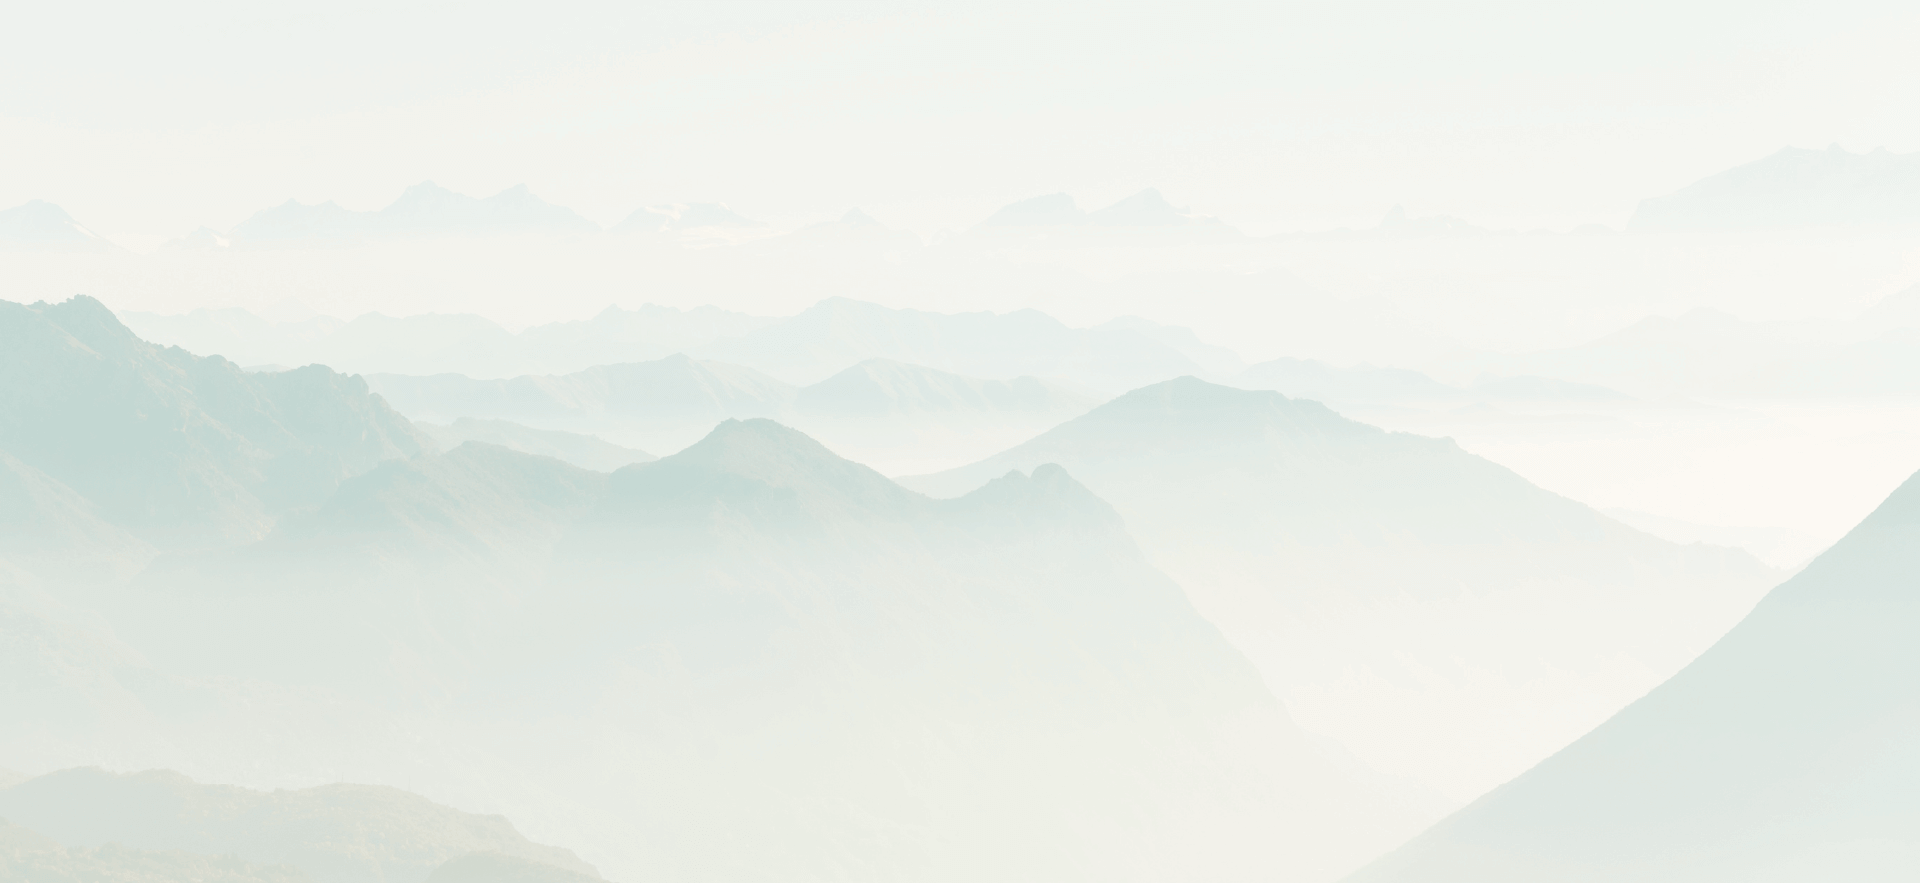
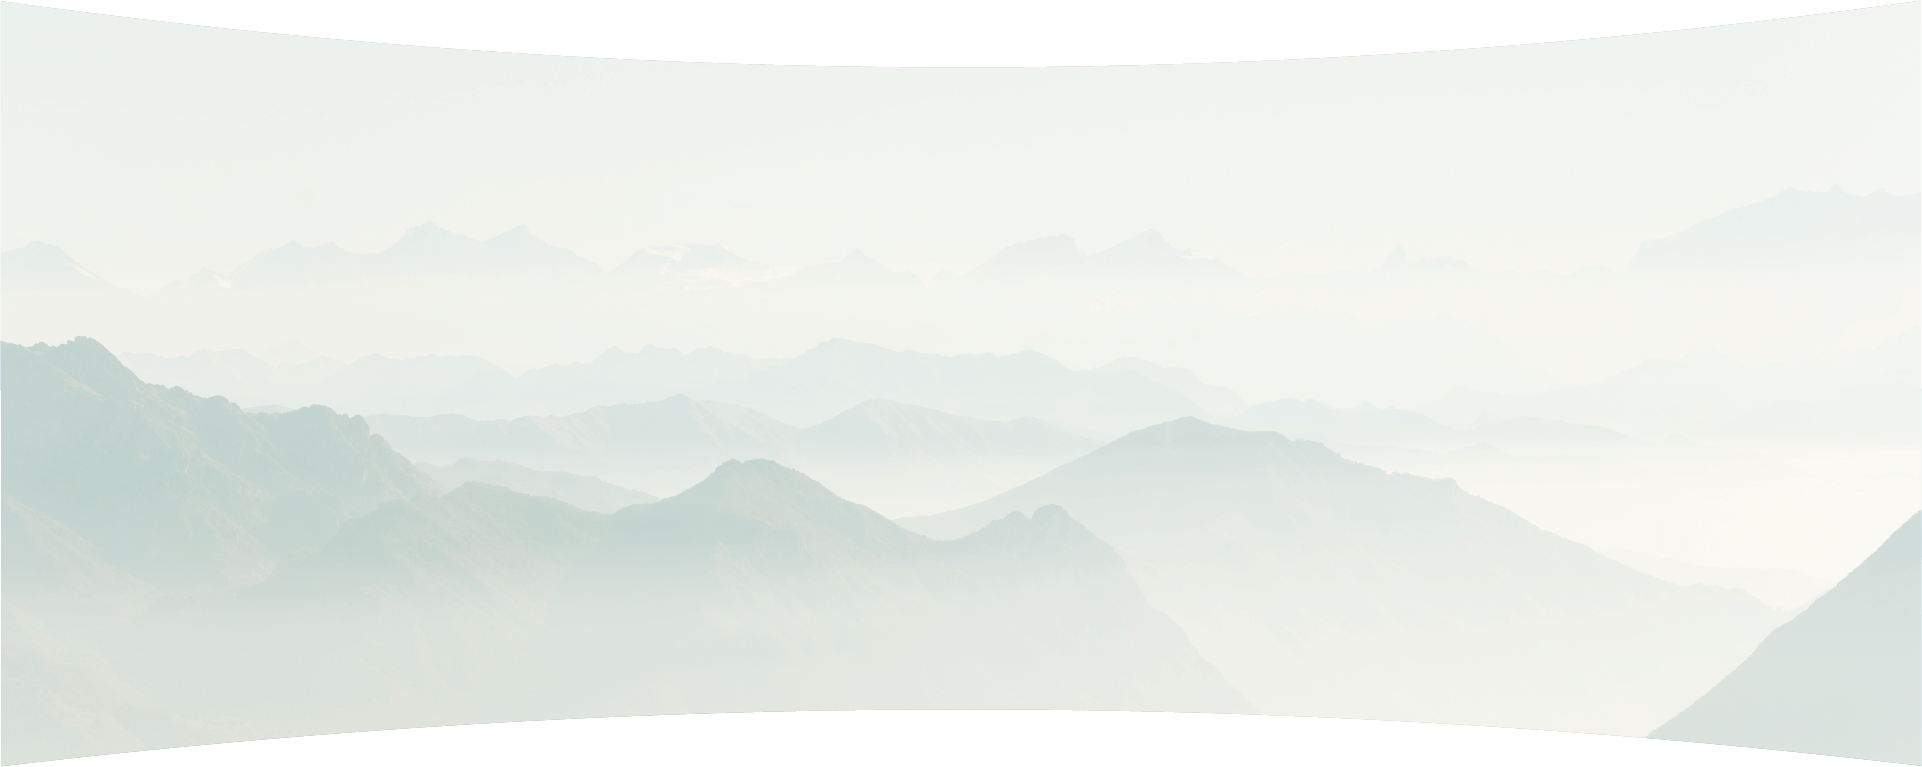
IMG up

diff --git a/css/proyeccion/index.css b/css/proyeccion/index.css
@@ -31,8 +31,13 @@
 }
 
 .comentarios {
-  background: #ddd2bb;
-  padding: 0 20px;
+  /* background: #ddd2bb;
+  padding: 0 20px; */
+}
+.bg-social {
+  background: url(../../images/compromiso/bg.png) no-repeat top;
+  background-size: cover;
+  height: 83vh;
 }
 
 .grid-comemnt {
@@ -42,13 +47,9 @@
   display: grid;
   height: 100%;
   align-content: center;
-  padding: 0 0 50px;
+  padding: 0 20px;
 }
 
-.title-comment {
-  text-align: center;
-  padding: 40px 0 0;
-}
 .comillas-pr {
   font-family: "Amanda Regular";
   font-size: 70px;
@@ -62,13 +63,11 @@
   display: grid;
   justify-content: right;
 }
-.content-comillas {
-  margin-top: 1.7em;
-  padding: 0 0px 0 9px;
-}
+
 .title-comment p {
-  font-family: "Rotunda Regular";
+  font-family: "Rotunda Light";
   font-size: 19px;
+  text-align: justify;
 }
 
 .title-comment h2 {
@@ -114,22 +113,18 @@
     max-width: 1200px;
     margin: auto;
   }
-  .content-comillas {
-    margin-top: 2em;
-    padding: 0 0px 0 15px;
-  }
   .comillas-pr {
     font-size: 100px;
   }
   .comillas-pr2 {
     font-size: 100px;
   }
-  .grid-comemnt {
-    padding: 0 0 100px;
-  }
 }
 
 @media screen and (min-width: 1024px) {
+  .grid-comemnt {
+    padding: 0 0;
+  }
   .header-ps {
     background-size: contain;
   }
@@ -143,10 +138,8 @@
     font-size: 45px;
   }
   .title-comment p {
-    font-size: 25px;
-  }
-  .title-comment {
-    padding: 120px 0 0;
+    font-size: 31px;
+    text-align: center;
   }
   .comillas-pr2 span {
     margin-bottom: 0.3em;

diff --git a/css/footer/index.css b/css/footer/index.css
@@ -7,7 +7,6 @@
   position: relative;
   width: 100%;
   overflow: hidden;
-  background: #8ec1d9;
 }
 
 .footer-contact {
@@ -21,7 +20,6 @@
   position: relative;
   width: 100%;
   overflow: hidden;
-  background: #ddd2bb;
 }
 .footer::before {
   content: "";
@@ -171,7 +169,7 @@
     padding: 50px 0px;
   }
   .footer-service::before {
-    transform: scaleX(2.7);
+    transform: scaleX(2);
   }
   .footer-contact .content {
     max-width: 1024px;
@@ -179,7 +177,7 @@
     padding: 50px 0px;
   }
   .footer-contact::before {
-    transform: scaleX(2.7);
+    transform: scaleX(2);
   }
   .footer-media .content {
     max-width: 1024px;
@@ -187,7 +185,7 @@
     padding: 50px 0px;
   }
   .footer-media::before {
-    transform: scaleX(2.7);
+    transform: scaleX(2);
   }
   .title-footer {
     padding-top: 0px;

diff --git a/css/contacto/index.css b/css/contacto/index.css
@@ -1,6 +1,20 @@
 .contacto {
-  background: #e1f2f0;
+  position: relative;
+  width: 100%;
+  overflow: hidden;
   padding: 50px 20px;
+}
+section.contacto:before {
+  content: "";
+  position: absolute;
+  top: 0;
+  left: 0;
+  width: 100%;
+  height: 100%;
+  border-radius: 50% 50% 0 0/100% 100% 0 0;
+  transform: scaleX(3.7);
+  background: #e1f2f0;
+  z-index: -1;
 }
 .content-contacto {
   max-width: 1100px;

diff --git a/css/menu/index.css b/css/menu/index.css
@@ -53,14 +53,14 @@
   width: 100%;
 }
 .menu-bg {
-  z-index: 1;
+  z-index: 2;
   width: 0;
   height: 0;
   background: linear-gradient(45deg, black, transparent);
   transition: 0.3s ease;
 }
 #menu-bar {
-  z-index: 2;
+  z-index: 3;
 }
 .change-bg {
   width: 100%;

diff --git a/css/servicios/index.css b/css/servicios/index.css
@@ -228,7 +228,7 @@
     margin-bottom: 0em;
   }
   .testimonio {
-    height: 65vh;
+    height: 82vh;
     display: grid;
   }
   .grid-testimonio-img p {

diff --git a/vistas/servicios.php b/vistas/servicios.php
@@ -1124,60 +1124,11 @@ include_once 'plantillas/documento-declaracion.inc.php';
 
 
 
-<section class="testimonio">
-    <div class="grid-testimonio">
-        <div class="title-test">
-            <h2>testimonios</h2>
-        </div>
-        <div class="owl-carousel owl-theme" id="slider-testimonio">
-            <div class="item">
-                <div class="grid-testimonio-img">
-                    <p>
-                        El Dr. Fong y su equipo fueron muy profesionales y atentos a cada una de mis necesidades, me
-                        sentí escuchada, comprendida y protegida. Con sus consejos, cuidados y atenciones lograron
-                        empoderarme para renacer completamente.
-                    </p>
-                    <h6>- Ariana Marcani -</h6>
-                </div>
-            </div>
-            <div class="item">
-                <div class="grid-testimonio-img">
-                    <p>
-                        Gracias a la atención del Dr. Fong y la de su equipo he logrado volver a confiar en mi mismo,
-                        sentirme cómodo y joven, tengo mayor energía y positivismo para sacar todo mi potencial y seguir
-                        haciendo lo que tanto me gusta.
-                    </p>
-                    <h6>- Edson Dávila -</h6>
-                </div>
-            </div>
-            <div class="item">
-                <div class="grid-testimonio-img">
-                    <p>
-                        Durante todo el proceso de mi transformación he sentido el gran apoyo del Dr. Fong. Gracias a su
-                        profesionalismo, experiencia y compromiso supo guiarme y asesorarme para conseguir los
-                        resultados deseados
-                    </p>
-                    <h6>- Lorena Fajardo -</h6>
-                </div>
-            </div>
-            <div class="item">
-                <div class="grid-testimonio-img">
-                    <p>
-                        Durante todo el proceso de mi transformación he sentido el gran apoyo del Dr. Fong. Gracias a su
-                        profesionalismo, experiencia y compromiso supo guiarme y asesorarme para conseguir los
-                        resultados deseados.
-                    </p>
-                    <h6>- Diana -</h6>
-                </div>
-            </div>
-
-        </div>
-    </div>
-</section>
 
 
 
 <?php
+  include_once 'plantillas/testimonio/index.php';
   include_once 'plantillas/footer-service.php';
   include_once 'plantillas/documento-cierre.inc.php';
 ?>

diff --git a/plantillas/testimonio/index.php b/plantillas/testimonio/index.php
@@ -1,0 +1,50 @@
+<section class="testimonio">
+    <div class="grid-testimonio">
+        <div class="title-test">
+            <h2>testimonios</h2>
+        </div>
+        <div class="owl-carousel owl-theme" id="slider-testimonio">
+            <div class="item">
+                <div class="grid-testimonio-img">
+                    <p>
+                        El Dr. Fong y su equipo fueron muy profesionales y atentos a cada una de mis necesidades, me
+                        sentí escuchada, comprendida y protegida. Con sus consejos, cuidados y atenciones lograron
+                        empoderarme para renacer completamente.
+                    </p>
+                    <h6>- Ariana Marcani -</h6>
+                </div>
+            </div>
+            <div class="item">
+                <div class="grid-testimonio-img">
+                    <p>
+                        Gracias a la atención del Dr. Fong y la de su equipo he logrado volver a confiar en mi mismo,
+                        sentirme cómodo y joven, tengo mayor energía y positivismo para sacar todo mi potencial y seguir
+                        haciendo lo que tanto me gusta.
+                    </p>
+                    <h6>- Edson Dávila -</h6>
+                </div>
+            </div>
+            <div class="item">
+                <div class="grid-testimonio-img">
+                    <p>
+                        Durante todo el proceso de mi transformación he sentido el gran apoyo del Dr. Fong. Gracias a su
+                        profesionalismo, experiencia y compromiso supo guiarme y asesorarme para conseguir los
+                        resultados deseados
+                    </p>
+                    <h6>- Lorena Fajardo -</h6>
+                </div>
+            </div>
+            <div class="item">
+                <div class="grid-testimonio-img">
+                    <p>
+                        Durante todo el proceso de mi transformación he sentido el gran apoyo del Dr. Fong. Gracias a su
+                        profesionalismo, experiencia y compromiso supo guiarme y asesorarme para conseguir los
+                        resultados deseados.
+                    </p>
+                    <h6>- Diana -</h6>
+                </div>
+            </div>
+
+        </div>
+    </div>
+</section>

diff --git a/vistas/compromiso-social.php b/vistas/compromiso-social.php
@@ -76,20 +76,22 @@ include_once 'plantillas/documento-declaracion.inc.php';
 </section>
 
 <section class="comentarios">
-    <div class="grid-comemnt">
-        <div class="title-comment">
+    <div class="bg-social">
+        <div class="grid-comemnt">
+            <div class="title-comment">
 
-            <div class="content-comillas">
-                <p>
-                    Estoy seguro que cada día es una nueva oportunidad de ser felices y ser mejores personas.
-                    Cualquier
-                    acción altruista puede cambiar la vida de otra persona.
-                </p>
+                <div class="content-comillas">
+                    <p>
+                        Estoy seguro que cada día es una nueva oportunidad de ser felices y ser mejores personas.
+                        Cualquier
+                        acción altruista puede cambiar la vida de otra persona.
+                    </p>
+                </div>
+
             </div>
-
-        </div>
-        <div class="desc_doc">
-            <h2>- Dr. Fong -</h2>
+            <div class="desc_doc">
+                <h2>- Dr. Fong -</h2>
+            </div>
         </div>
     </div>
 </section>

diff --git a/vistas/galeria.php b/vistas/galeria.php
@@ -172,6 +172,7 @@ include_once 'plantillas/documento-declaracion.inc.php';
 
 
 <?php
+include_once 'plantillas/testimonio/index.php';
   include_once 'plantillas/footer.php';
   include_once 'plantillas/documento-cierre.inc.php';
 ?>
